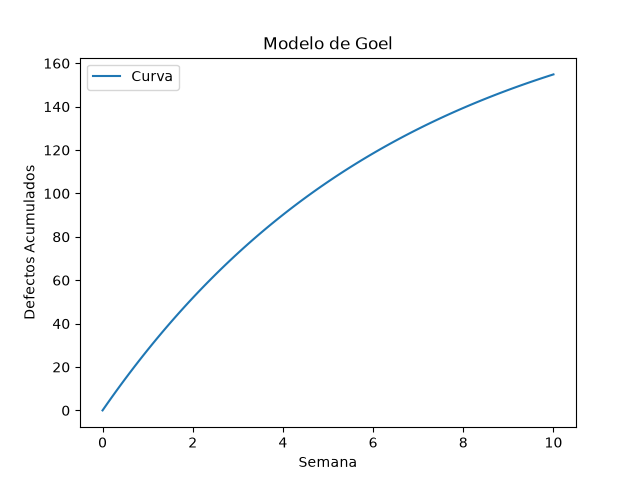
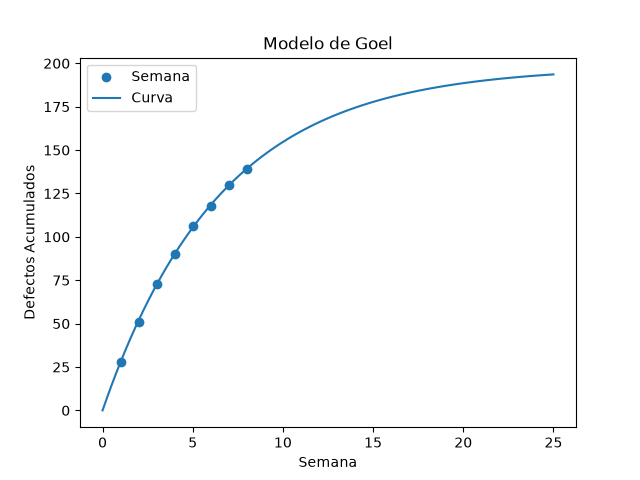
Correcion al numero de semanas, se probo inicialmente con el codigo de la clase,se corrigio el valor con los datos del ejercicio para verificar si el cambio variaba, Redacion del README

diff --git a/src/modelo.py b/src/modelo.py
@@ -11,7 +11,7 @@ hallados = np.array([28, 52, 72, 90, 105, 118])
 class CampanaPruebas:
     def __init__(self,defectos):
         self.defectos = np.array(defectos)
-        self.semana =np.array([1,2,3,4,5,6])
+        self.semana =np.array([1,2,3,4,5,6,7,8])
         self.hallados = np.cumsum(self.defectos)
 
 # Modelo de Goel-Okumoto
@@ -26,7 +26,7 @@ class CampanaPruebas:
 
     #defectos restantes
     def restantes(self):
-        return self.a - self.goel(6, self.a, self.b)
+        return self.a - self.goel(8, self.a, self.b)
 
     #Cuando llega al 95% de los defectos
     def semana_95(self):
@@ -34,7 +34,8 @@ class CampanaPruebas:
 
     #Grafica
     def graficar(self):
-        t = np.linspace(0, 10, 100)
+        t = np.linspace(0, 25, 100)
+        plt.scatter(self.semana, self.hallados, label="Semana")
         plt.plot(t, self.goel (t, self.a, self.b), label = "Curva")
         plt.title("Modelo de Goel")
         plt.xlabel("Semana")

diff --git a/src/main.py b/src/main.py
@@ -10,7 +10,7 @@ try:
     database = client.get_database("matriculapp")
     semanas = database.get_collection("semana")
 
-    results = semanas.find({}).sort("numeroSemana", pymongo.ASCENDING).limit(6)
+    results = semanas.find({}).sort("numeroSemana", pymongo.ASCENDING).limit(8)
 
     defectos = []
     for semana in results:

diff --git a/README.md b/README.md
@@ -46,3 +46,11 @@ Campos con tipo de dato
 
 Interpretacion
 
+Pregunta: ¿cuántos defectos quedarían sin descubrir si se libera hoy? ¿En qué semana se
+llegaría al 95 % (t = ln 20 / b)
+
+
+• Prueba sugerida: goel(0, a, b) debe valer 0
+
+Pregunta
+Con los datos de las semanas de prueba que se dieron en la tabla y despues de realizado el modelo, se puede concluir que segun el modelo Goel matriculapp tiene 198 defectos, hasta la semana 8 se encontraron 139 defectos, por lo que en caso de liberarse "hoy" quedarian 59 defectos sin descubrir, Para llegar al 95% tendria que probar hasta la semana 20, por lo que NO se recomienda liberar la version, todavia tiene un gran porcentaje de error faltante. 
